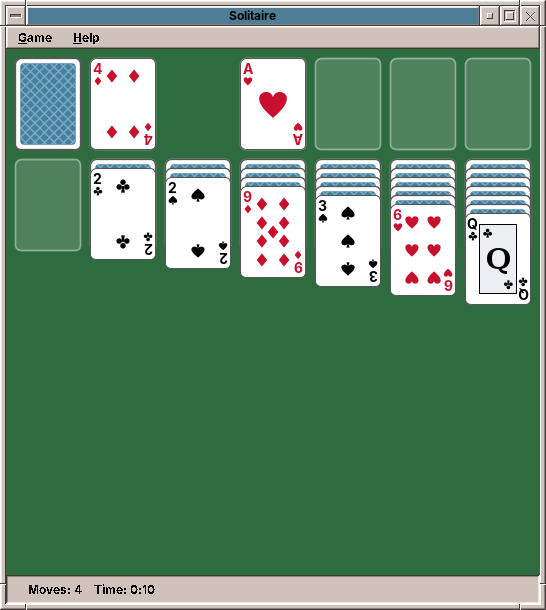
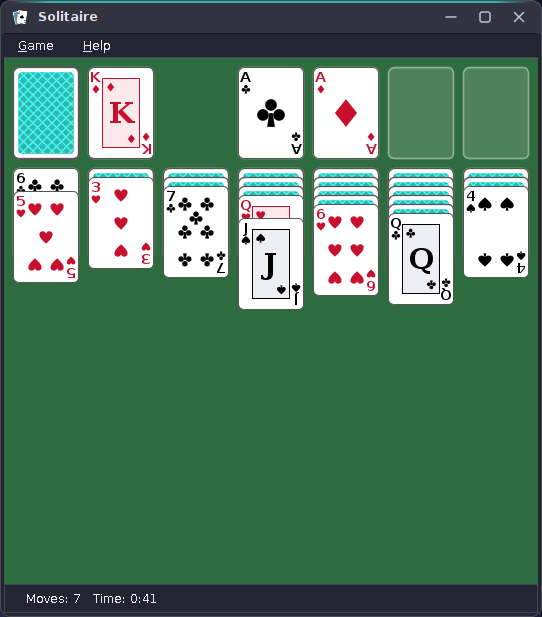
docs(readme): show the Horizon look in the screenshots
The screenshots in docs/screenshots (used by the README and the AppStream
metainfo) showed the classic CDE look. They are replaced by shots in the
Horizon look, Dark scheme; a README without a picture gets one.

Claude-Session: https://claude.ai/code/session_017Pd6NcKy4y87wY8jkALjpZ

diff --git a/README.md b/README.md
@@ -5,6 +5,8 @@
 ![License](https://img.shields.io/badge/license-EUPL--1.2-blue)
 ![Java](https://img.shields.io/badge/Java-25-orange)
 
+![Solitaire](docs/screenshots/amade-solitaire-game.png)
+
 ## Playing
 
 - Build the four **foundations** (top right) up from ace to king, each in one suit.
